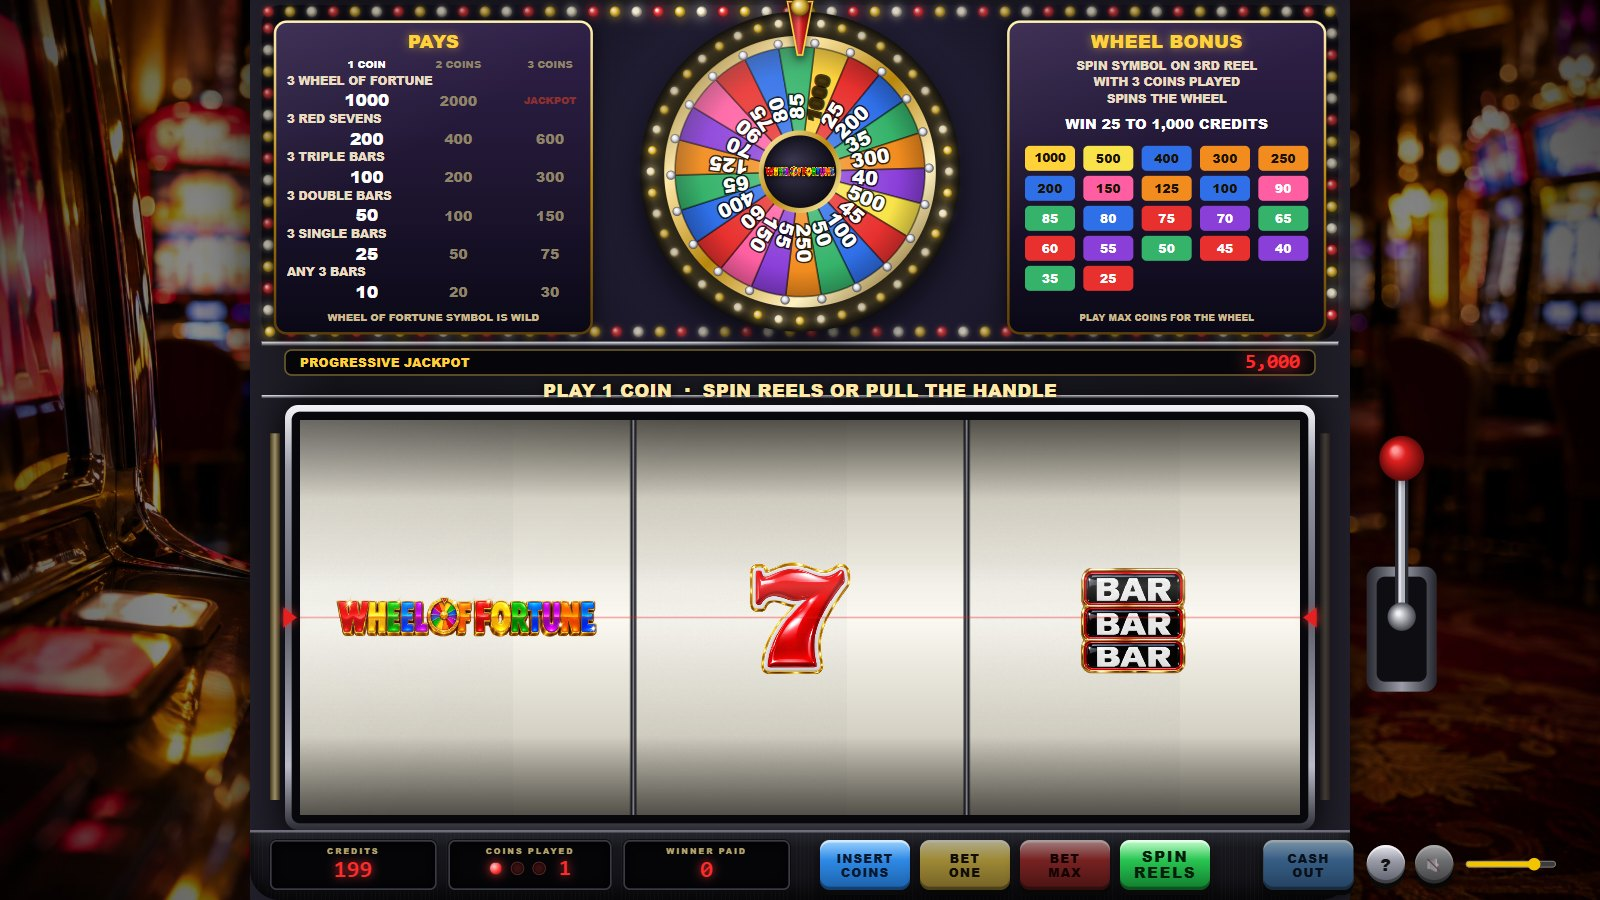
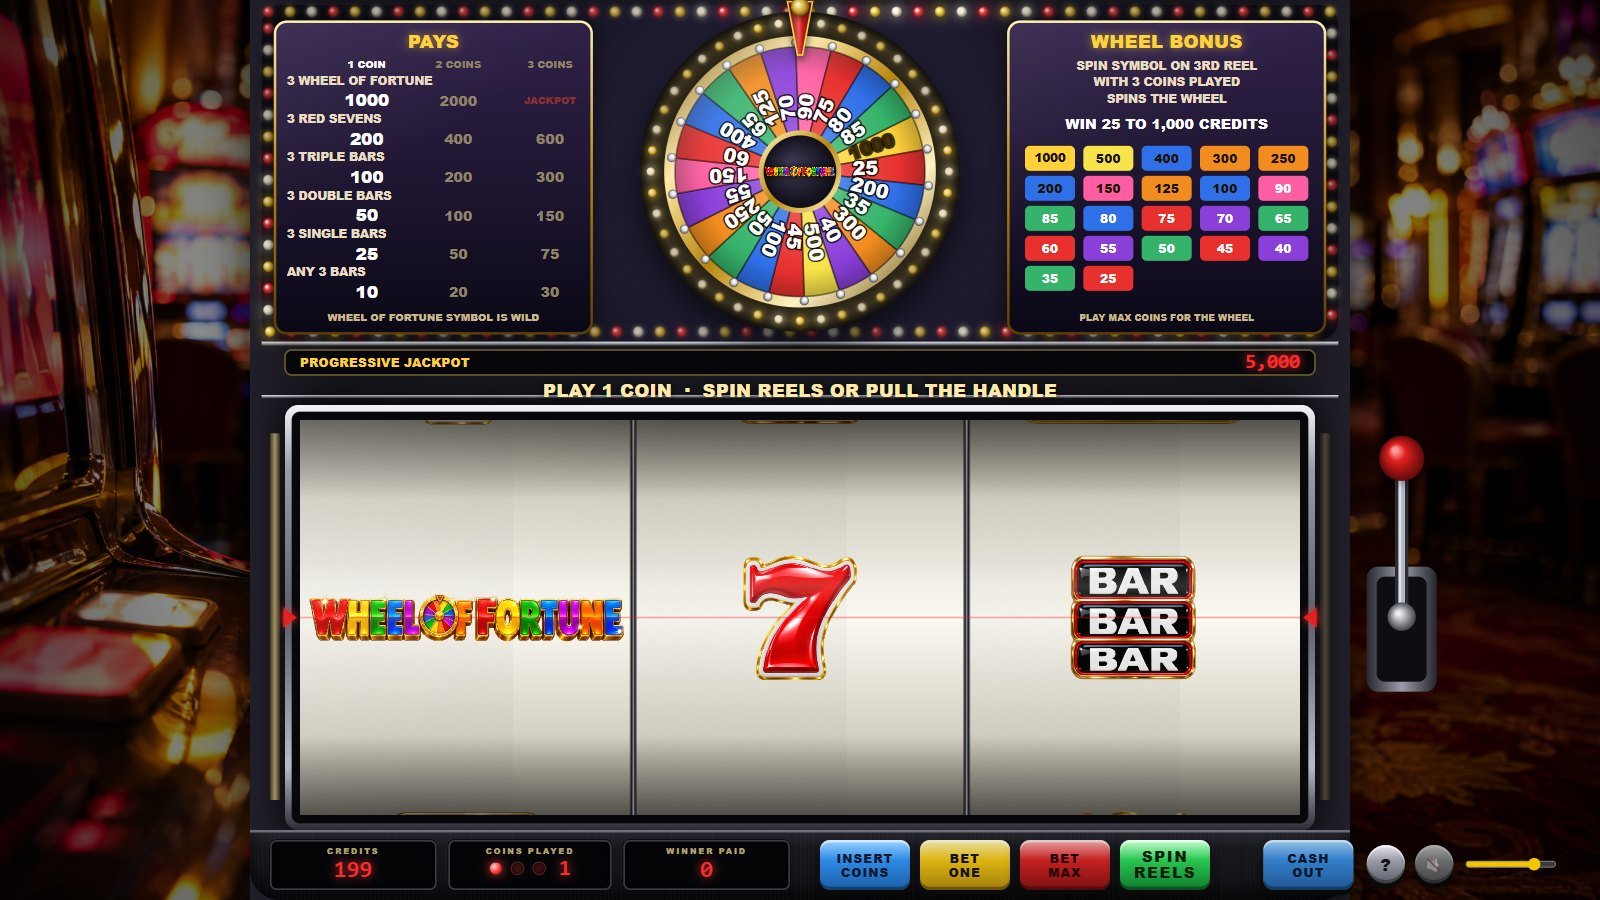
Symbols fill the reel cells
Each symbol image is trimmed to its painted pixels when prepared, so the bars and the logo span the strip width and the 7 and SPIN use the full cell height like a real stepper; falls back to the whole image when the canvas is tainted. Per-cell margin reduced to 2 px. Screenshots regenerated.

diff --git a/js/assets.js b/js/assets.js
@@ -34,6 +34,25 @@
   }
   A.roundRect = roundRect;
 
+  /* Bounding box of the painted pixels of an image (alpha above `min`), in image coordinates.
+     Lets a wide BAR or the logo fill the width of a wide cell and a 7 fill its height, like the
+     printed strip of a real stepper. Falls back to the whole image when the canvas is tainted
+     (a page opened straight from disk) or nothing is painted. */
+  A.paintedBounds = function (img, min) {
+    const full = { x: 0, y: 0, w: img.width, h: img.height };
+    try {
+      const n = 160, c = document.createElement('canvas'); c.width = c.height = n;
+      const cx = c.getContext('2d', { willReadFrequently: true }); cx.drawImage(img, 0, 0, n, n);
+      const d = cx.getImageData(0, 0, n, n).data;
+      let x0 = n, y0 = n, x1 = -1, y1 = -1;
+      for (let y = 0; y < n; y++) for (let x = 0; x < n; x++) if (d[(y * n + x) * 4 + 3] > (min || 48)) { if (x < x0) x0 = x; if (x > x1) x1 = x; if (y < y0) y0 = y; if (y > y1) y1 = y; }
+      if (x1 < 0) return full;
+      const sx = img.width / n, sy = img.height / n;
+      const bx = Math.max(0, (x0 - 1) * sx), by = Math.max(0, (y0 - 1) * sy);
+      return { x: bx, y: by, w: Math.min(img.width, (x1 + 2) * sx) - bx, h: Math.min(img.height, (y1 + 2) * sy) - by };
+    } catch (e) { return full; }
+  };
+
   /* symbol variants at 2x cell size: [sharp, blur1, blur2, blur3] */
   A.prepareSymbols = function (w, h) {
     A.symW = w; A.symH = h;
@@ -43,9 +62,10 @@
       const ctx = base.getContext('2d');
       const img = A.symbolImage(s.id) || (s.id === 'WOF' ? A.image('logo') : null);
       if (img) {
-        const m = 0.06, aw = w * (1 - 2 * m), ah = h * (1 - 2 * m);
-        const sc = Math.min(aw / img.width, ah / img.height), dw = img.width * sc, dh = img.height * sc;
-        ctx.drawImage(img, (w - dw) / 2, (h - dh) / 2, dw, dh);
+        /* the painted part of the artwork fills 96% of the cell in its limiting direction */
+        const b = A.paintedBounds(img), m = 0.02, aw = w * (1 - 2 * m), ah = h * (1 - 2 * m);
+        const sc = Math.min(aw / b.w, ah / b.h), dw = b.w * sc, dh = b.h * sc;
+        ctx.drawImage(img, b.x, b.y, b.w, b.h, (w - dw) / 2, (h - dh) / 2, dw, dh);
       } else drawFallback(ctx, s, w, h);
       const variants = [base];
       [0.12, 0.3, 0.55].forEach(frac => {

diff --git a/js/renderer.js b/js/renderer.js
@@ -299,7 +299,7 @@
     const id = reel.symbolAt(k); if (id === 'BLANK') return;
     const img = A.symbol(id, level); if (!img) return;
     const u = reel.pos - k; if (Math.abs(u) > 2.1) return;
-    const n = level > 0 ? 3 : 8, pad = 6, dw = REEL.cellW - 2 * pad, dx = rx + pad;
+    const n = level > 0 ? 3 : 8, pad = 2, dw = REEL.cellW - 2 * pad, dx = rx + pad;
     for (let j = 0; j < n; j++) {
       const u0 = u - 0.5 + j / n, u1 = u0 + 1 / n, y0 = REEL.cy + proj(u0), y1 = REEL.cy + proj(u1);
       if (y1 <= REEL.y - 1 || y0 >= REEL.y + REEL.h + 1) continue;
